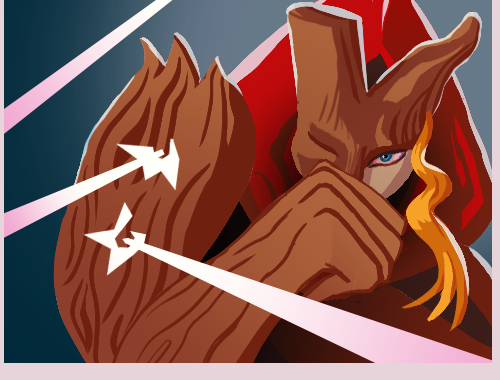
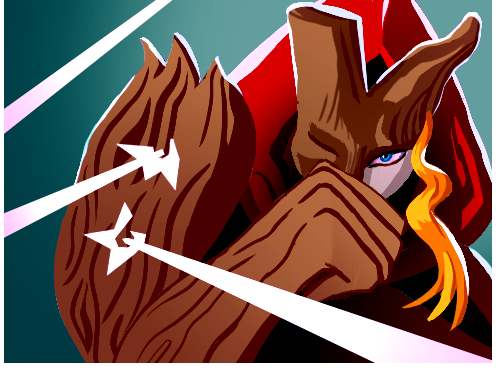
new card art: Defend

diff --git a/theVirtuosa/src/main/java/theVirtuosa/cards/VirtuosaDefend.java b/theVirtuosa/src/main/java/theVirtuosa/cards/VirtuosaDefend.java
@@ -21,7 +21,7 @@ public class VirtuosaDefend extends AbstractDynamicCard {
     // TEXT DECLARATION
 
     public static final String ID = TheVirtuosa.makeID(VirtuosaDefend.class.getSimpleName());
-    public static final String IMG = makeCardPath("VirtuosaDefend3.png");
+    public static final String IMG = makeCardPath("VirtuosaDefend.png");
 
     // /TEXT DECLARATION/
 
